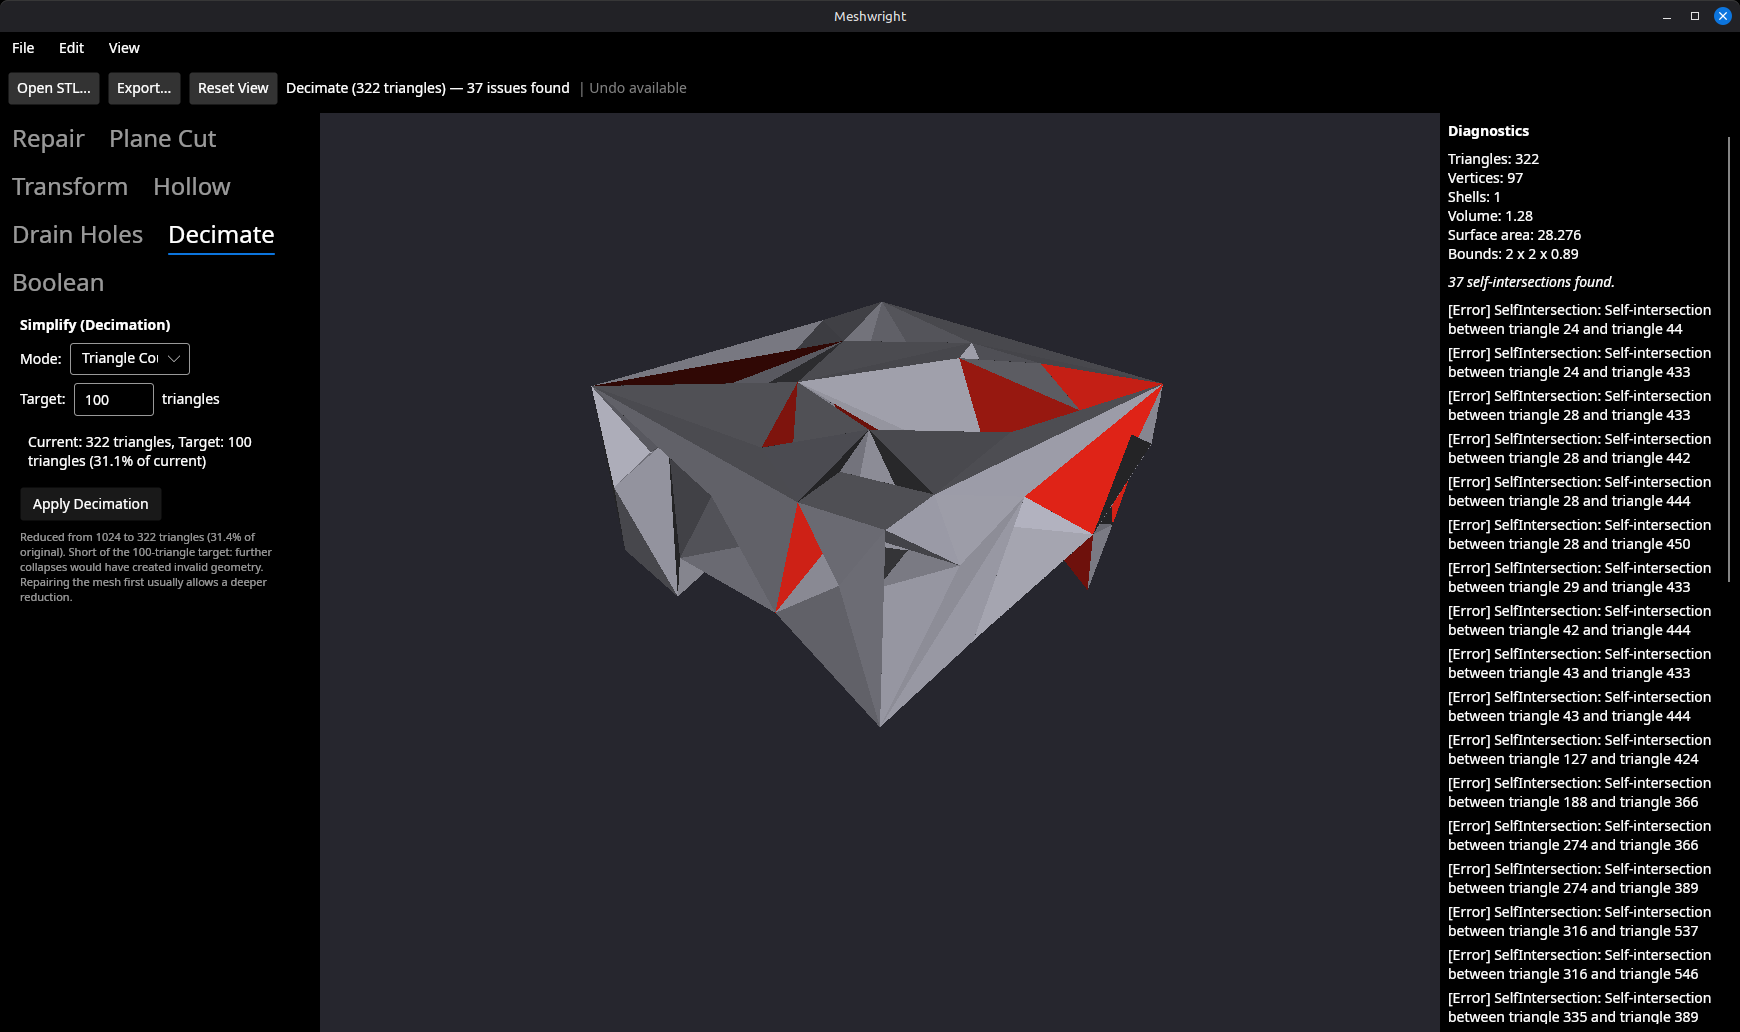
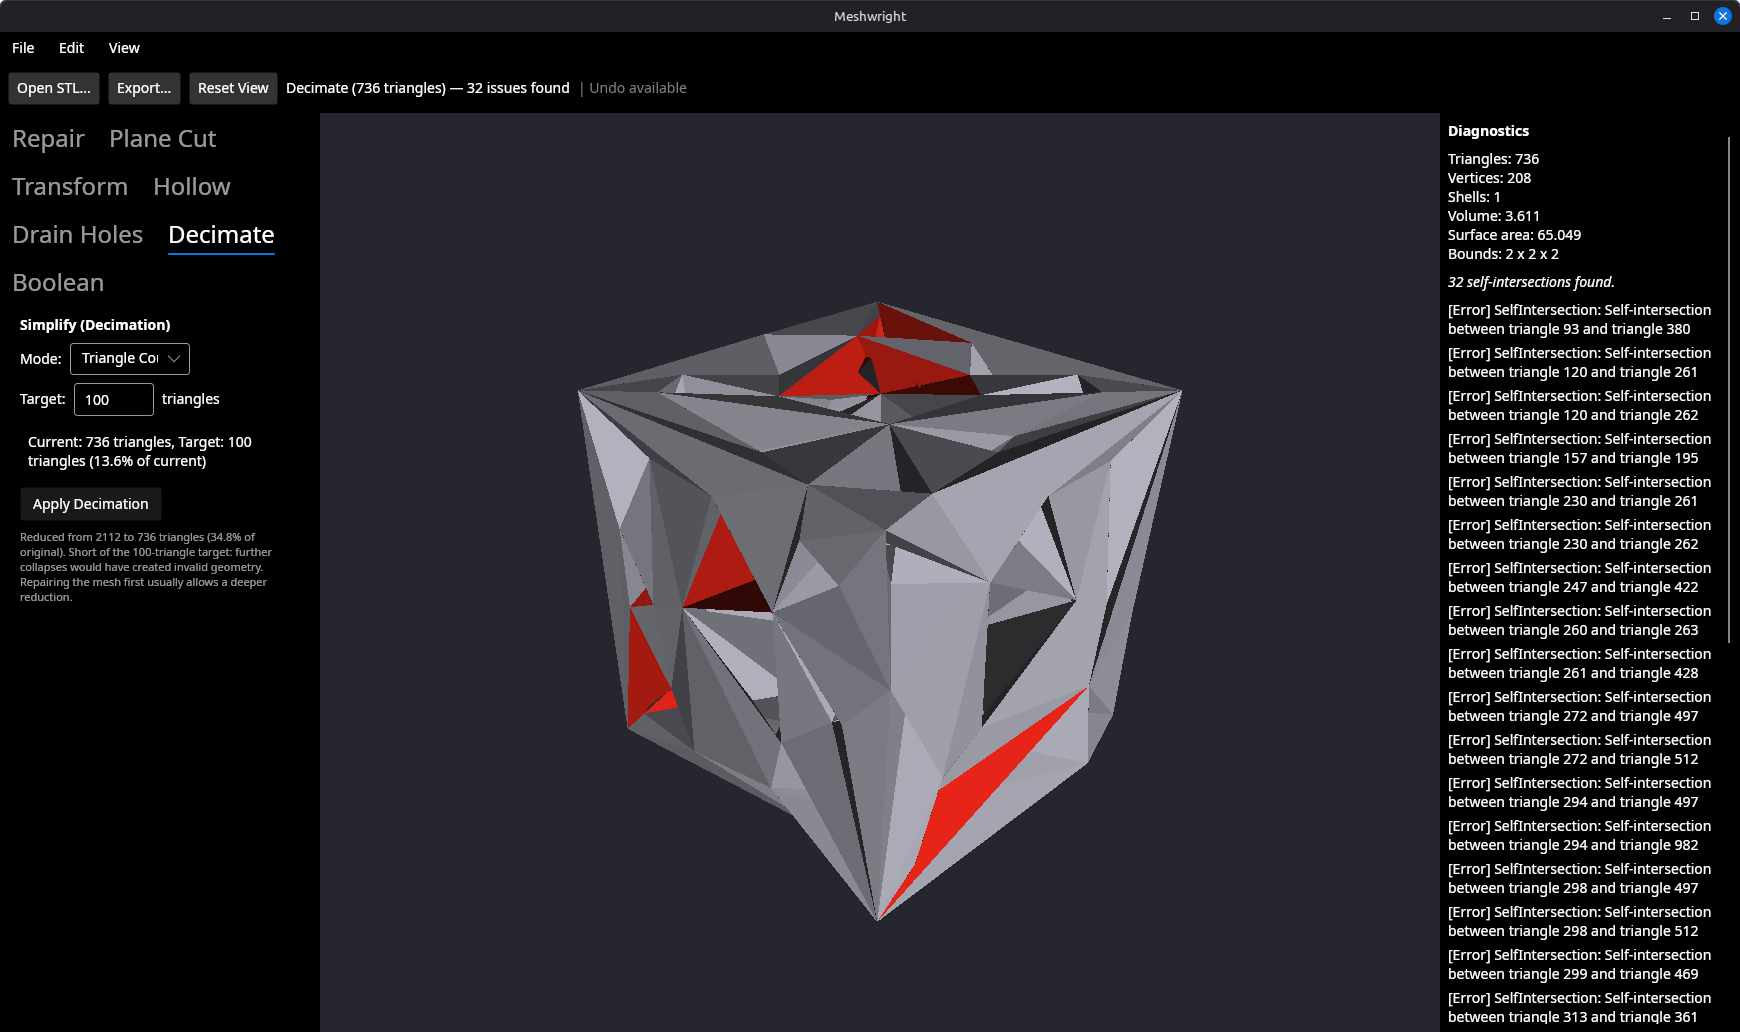
Retake decimate.png against a genuine mesh
The old screenshot was captured from a mesh already mangled by the
broken plane cut (fixed as spec item 12), so decimation was shown
running on a garbage cross-section rather than a clean starting point.
Retaken with the Menger sponge sample (2112 triangles, 0 issues going
in): a target of 100 triangles stops at 736, reporting the shortfall
and the 32 self-intersections the reduction introduced near the
sponge's holes. Updated the alt text and note to match the new
numbers and to describe holes-by-design rather than a defective mesh.

diff --git a/docs/usage.html b/docs/usage.html
@@ -423,7 +423,7 @@
 
     <figure>
       <img src="images/decimate.png" width="1740" height="1032"
-           alt="Meshwright after decimation, reporting a reduction from 1024 to 322 triangles and a
+           alt="Meshwright after decimation, reporting a reduction from 2112 to 736 triangles and a
                 message that it stopped short of the 100-triangle target.">
       <figcaption>
         Decimation reports when it cannot reach the target rather than presenting
@@ -433,10 +433,11 @@
 
     <div class="note">
       <strong>Repair before you simplify.</strong> Edge collapses that would create
-      non-manifold geometry are refused, so on a broken mesh the reducer stalls
-      early — above, a request for 100 triangles stopped at 322. Running Auto
-      Repair first usually allows a far deeper reduction, and decimating a
-      defective mesh tends to add self-intersections, as it did here.
+      non-manifold geometry are refused, so a mesh riddled with holes stalls well
+      short of an aggressive target — above, a request for 100 triangles on a
+      Menger-sponge mesh stopped at 736. Decimating that close to so many holes
+      also tends to add self-intersections, as it did here; running Auto Repair
+      first (to fill the holes) usually allows a far deeper reduction.
     </div>
   </section>
 
